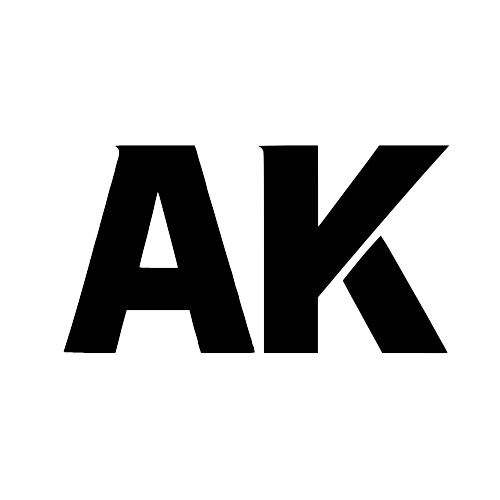
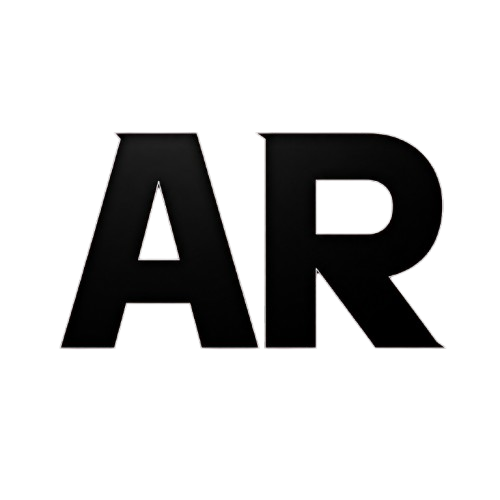
resume updated

diff --git a/components/home/hero.tsx b/components/home/hero.tsx
@@ -101,7 +101,7 @@ export function Hero() {
                 <Button variant="outline" size="lg" asChild>
                   <a
                     href="/resume.pdf"
-                    download="aditya_raj_singh_resume.pdf"
+                    download="Resume_Aditya_Raj.pdf"
                     target="_blank"
                     rel="noopener noreferrer"
                   >